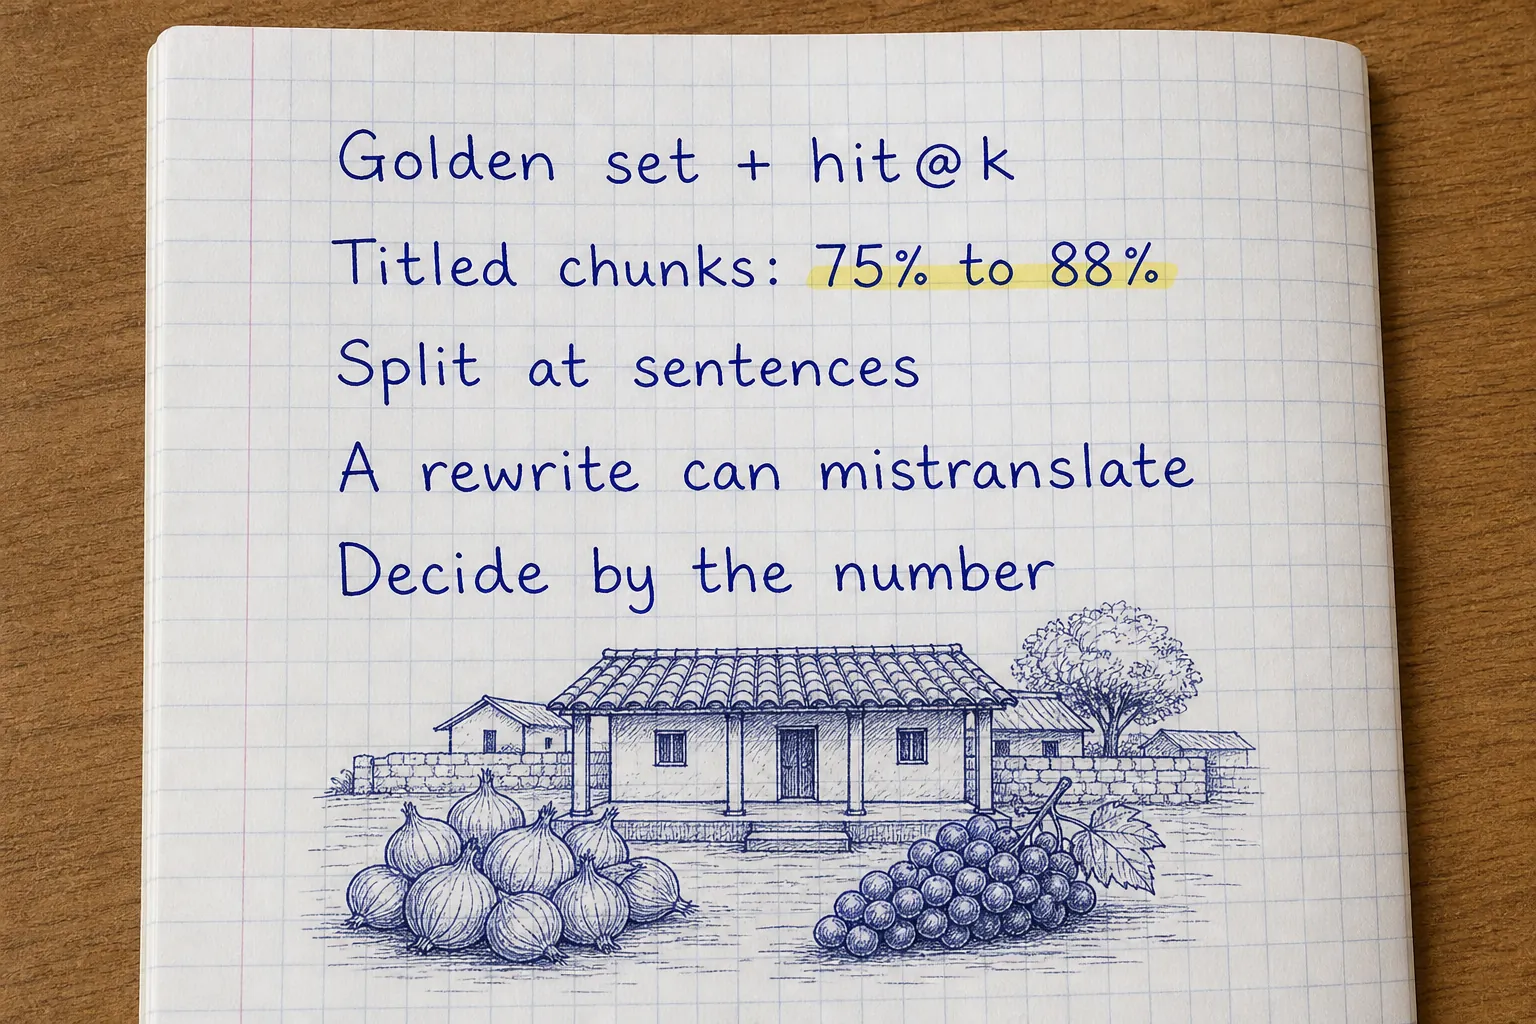
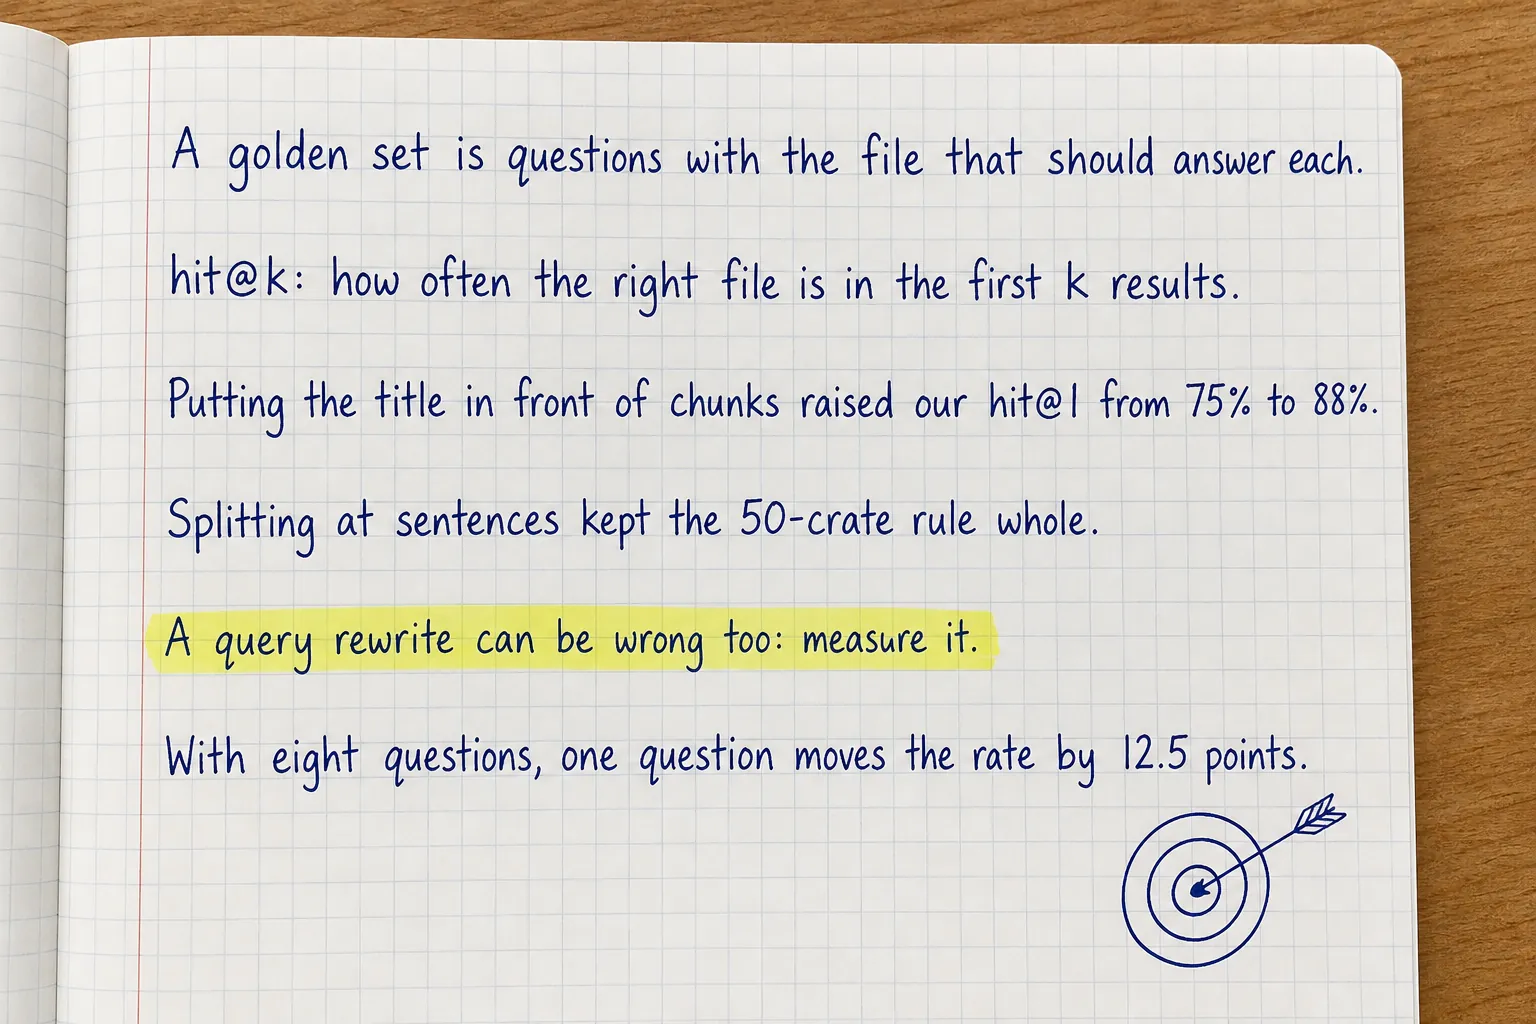
LangChain chapter 20 rewritten: plain and fuller, every experiment reproduced live, the small-sample limit added

diff --git a/labs/langchain/chapters/20-retrieval-quality.md b/labs/langchain/chapters/20-retrieval-quality.md
@@ -59,8 +59,13 @@ works for any store, any splitter and any setting you want to compare.
 :::
 
 :::step{type=task task=hit_rate title="Your turn: the hit rate" file="20-retrieval-quality/quality.py" line="16-20"}
-Finish `hit_rate(sources_for, golden, k)`: count the questions whose expected file is in `sources_for(question)[:k]`,
-and divide by `len(golden)`.
+Finish `hit_rate(sources_for, golden, k)`. `golden` is a list of `(question, expected_file)` pairs.
+
+1. For each pair, `got = sources_for(question)`: the files of the results, best first.
+2. Count the questions where `expected_file in got[:k]`.
+3. Return the count divided by `len(golden)`.
+
+The usual slip: `got[k]` (one result) instead of `got[:k]` (the first k).
 
 Press **Check**.
 :::
@@ -78,9 +83,15 @@ It is one of the cheapest improvements in retrieval, often called **contextual c
 :::
 
 :::step{type=task task=titled_chunks title="Your turn: titled chunks" file="20-retrieval-quality/quality.py" line="23-28"}
-Finish `titled_chunks(chunks, titles)`: for each chunk, look up `titles[chunk.metadata["source"]]` and make a new
-`Document` with `f"{title}: {chunk.page_content}"` (unchanged if it already starts with the title) and a copy of the
-metadata.
+Finish `titled_chunks(chunks, titles)`. `titles` maps each file name to its first line (`"storage.txt": "Cold storage"`).
+
+1. For each chunk, `title = titles[chunk.metadata["source"]]`.
+2. The new text is `f"{title}: {chunk.page_content}"`, or the chunk's text unchanged if it already starts with the
+   title (the first chunk of each file usually does).
+3. Make `Document(page_content=text, metadata=dict(chunk.metadata))`: a copy, so the old chunk is not changed.
+
+The usual slip: changing `chunk.page_content` in place. The plain store, built from the same chunks, would then
+change too, and the comparison would be meaningless.
 
 ```bash run
 cd /workspace/20-retrieval-quality && python main.py
@@ -90,6 +101,8 @@ Press **Check**.
 :::
 
 :::step{type=try title="Measured: what helped, and what did not"}
+A real run (we got exactly this again on 25 November, including both query rewrites):
+
 ```text
 $ python main.py
 plain chunks : hit@1 75%, hit@3 88%
@@ -124,7 +137,9 @@ Three experiments, three real results:
    a prompt that says the farmer writes Marathi in English letters and gives two words, it became "How much will it cost
    to store onions?", and all three results came from `storage.txt`.
 
-None of these was obvious in advance. Each one was decided by a number.
+None of these was obvious in advance. Each one was decided by a number. One honest limit: with only eight questions,
+one question moves a hit rate by 12.5 points (88% is 7 of 8, rounded). Real golden sets have dozens or hundreds of
+questions, so a change of one question is not mistaken for a trend.
 :::
 
 :::step{type=predict title="Guess first"}
@@ -185,7 +200,7 @@ You can now:
 
 Next, chapter 21: MCP. The co-op's tools as a server any AI application can use.
 
-:::photo{src="/lesson-images/langchain/lc-20-notes.webp" alt="Handwritten notes about measuring retrieval: Golden set + hit@k; Titled chunks: 75% to 88%; Split at sentences; A rewrite can mistranslate; Decide by the number" ai="true"}
+:::photo{src="/lesson-images/langchain/lc-20-notes.webp" alt="Handwritten notes about retrieval quality: A golden set is questions with the file that should answer each. hit@k: how often the right file is in the first k results. Putting the title in front of chunks raised our hit@1 from 75% to 88%. Splitting at sentences kept the 50-crate rule whole. A query rewrite can be wrong too: measure it. With eight questions, one question moves the rate by 12.5 points." ai="true"}
 One page of notes for this chapter.
 :::
 :::

diff --git a/CHANGELOG.md b/CHANGELOG.md
@@ -1,5 +1,12 @@
 # Changelog
 
+## 25 November: LangChain chapter 20 rewritten (easy, a little detailed, checked)
+
+- Both tasks list their steps and the usual slips (changing a chunk in place spoils the comparison).
+- Checked through the lab gateway: every line of the output again, both query rewrites included (the confident
+  "costs of joining the cooperative" and the right "cost to store onions"). Added the honest limit of eight questions:
+  one question moves a hit rate by 12.5 points, and 88% is 7 of 8. A new notes page.
+
 ## 25 November: LangChain chapter 19 rewritten (easy, a little detailed, checked)
 
 - RAG is explained where it first appears; both tasks list their steps and the usual slips.

diff --git a/REWRITE_LIST.md b/REWRITE_LIST.md
@@ -11,7 +11,7 @@ Status: **1 of 23 labs done** (13 of 319 chapters).
 | # | Lab | Title | Chapters | Status | Done on |
 |---|---|---|---|---|---|
 | 1 | rag-vector-databases | RAG and vector databases | 13 | done (13 of 13) | 25 Nov |
-| 2 | langchain | LangChain | 27 | in progress (19 of 27) | |
+| 2 | langchain | LangChain | 27 | in progress (20 of 27) | |
 | 3 | langchain4j | LangChain4j | 30 | not started | |
 | 4 | langgraph | LangGraph | 24 | not started | |
 | 5 | spring-ai | Spring AI | 20 | not started | |
